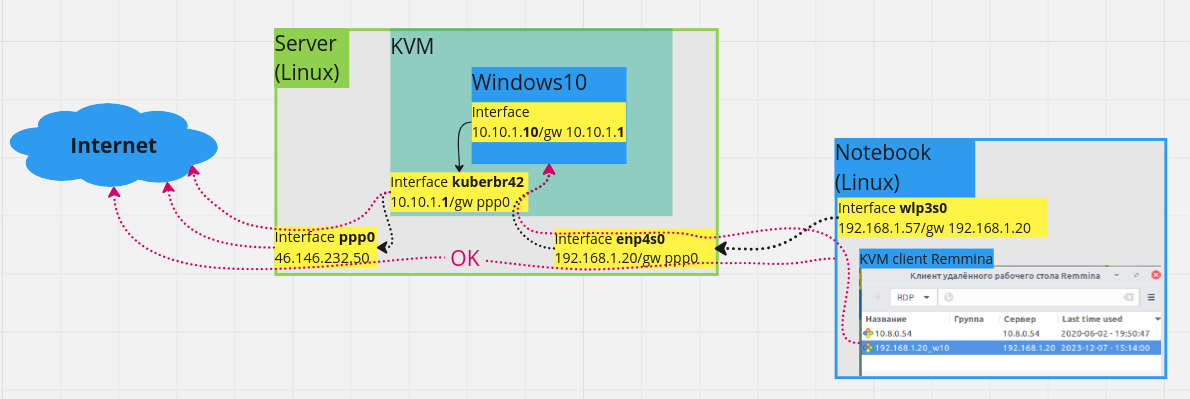
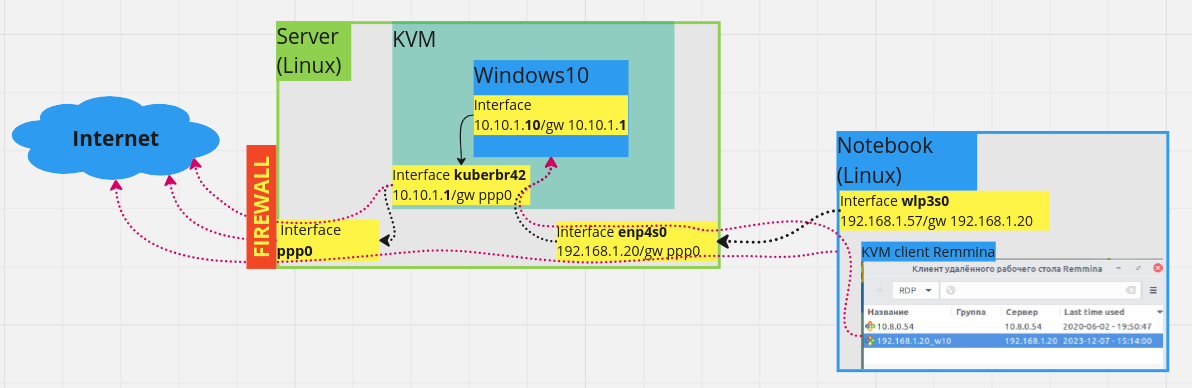
TODO

diff --git a/kvm/win10_in_linux_kwm.html b/kvm/win10_in_linux_kwm.html
@@ -37,6 +37,6 @@ Destination Gateway Genmask Flags Metric Ref Use Iface
 </code></pre>
 <hr/>
 TODO:<ul>
-    <li>Не описаны настройки <b>ufw</b> на Server(Linux).</li>
-    <li>Не описаны настройки <b>samba</b> на Server(linux)</li>
+    <li>Не описаны настройки <b>firewall</b>(ufw) на Server(Linux).</li>
+    <li>Не описаны настройки <b>общие папки windows</b>(samba) на Server(linux)</li>
 </ul>
